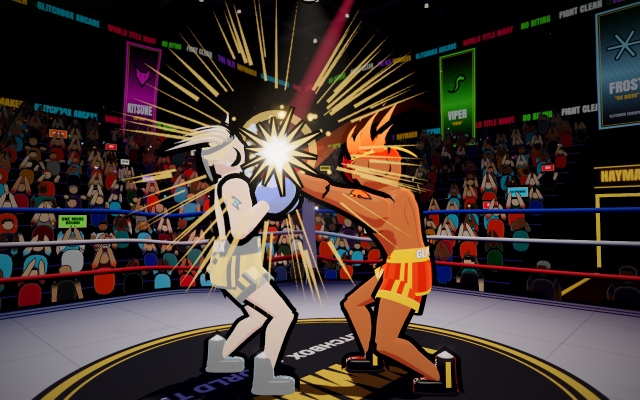
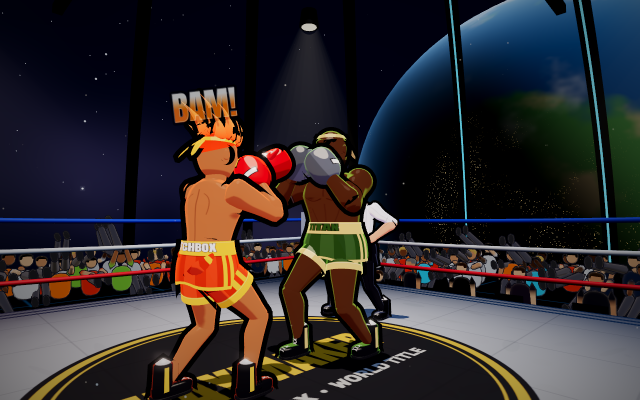
Haymaker: ZERO G achievement (win in ORBIT); new hub thumbnail — Blaze vs Titan in orbit with the Earth behind

diff --git a/haymaker.html b/haymaker.html
@@ -566,7 +566,7 @@ body.touch #abil,body.touch #keys{display:none}
       <kbd>DAILY</kbd><span>One set fight a day for everyone, scored on how well you win.</span>
       <kbd>TRAINING</kbd><span>A dummy you control, a step-by-step TUTORIAL and six COMBO TRIALS. RECORD a few seconds of your own moves and the dummy plays them back on loop — practise blocking exactly what gives you trouble.</span>
       <kbd>ONLINE</kbd><span>1v1 with a friend by room code. Keys 1–4 send quick chat.</span>
-      <kbd>PROGRESS</kbd><span>Fights earn XP for your level and your fighter's MASTERY (bronze → silver → gold). 28 achievements, career RECORDS, a LEGEND kit per fighter for winning the ladder, and a custom kit (✎) you design.</span>
+      <kbd>PROGRESS</kbd><span>Fights earn XP for your level and your fighter's MASTERY (bronze → silver → gold). 29 achievements, career RECORDS, a LEGEND kit per fighter for winning the ladder, and a custom kit (✎) you design.</span>
       <kbd>PAUSE</kbd><span>MOVE LIST, INSTANT REPLAY, PHOTO MODE and SETTINGS live in the pause menu.</span>
     </div>
     <button class="btn primary" id="helpBack">GOT IT</button>
@@ -763,7 +763,7 @@ const saveSet=()=>{try{localStorage.setItem('haymaker.set',JSON.stringify(SET))}
 const REC={w:0,l:0,ko:0,champ:{},ladders:0,per:{}};   // per[fighterId] = {w,l,ko,big,combo,titles}
 try{Object.assign(REC,JSON.parse(localStorage.getItem('haymaker.rec')||'{}'))}catch(e){}
 // ════ ACHIEVEMENTS ════
-const ACH=[['first','FIRST BLOOD','Win a fight'],['beach','BEACH BODY','Win a fight at The Beach'],['rope','ROPE-A-DOPE','Soak 3 punches in one Rope-a-Dope'],['finisher','SHOWSTOPPER','Win by KO with a Locker finisher'],['reel','HIGHLIGHT REEL','Watch your fight highlights'],['ko','LIGHTS OUT','Win by knockout'],['parry','READ YOU','Land a PERFECT block'],['hayko','HAYMAKER!','Knock someone out with a full haymaker'],
+const ACH=[['first','FIRST BLOOD','Win a fight'],['beach','BEACH BODY','Win a fight at The Beach'],['orbit','ZERO G','Win a fight in ORBIT'],['rope','ROPE-A-DOPE','Soak 3 punches in one Rope-a-Dope'],['finisher','SHOWSTOPPER','Win by KO with a Locker finisher'],['reel','HIGHLIGHT REEL','Watch your fight highlights'],['ko','LIGHTS OUT','Win by knockout'],['parry','READ YOU','Land a PERFECT block'],['hayko','HAYMAKER!','Knock someone out with a full haymaker'],
   ['clash','CLASH OF TITANS','Clash two haymakers'],['combo10','COMBO KING','Land a 10-hit combo'],['flawless','FLAWLESS','Win without taking a hit'],['comeback','COMEBACK','Win from under 10% health'],
   ['champ','CHAMPION','Win the arcade ladder'],['legend3','HALL OF FAME','Win the ladder with three different fighters'],['surv5','SURVIVOR','Win 5 in a row in survival'],['surv10','IRON WILL','Win 10 in a row in survival'],
   ['venues','WORLD TOUR','Win in the arena, on the rooftop and in the Pit'],['storm','STORM CHASER','Win on a stormy rooftop'],['all','COMPLETE ROSTER','Win with every fighter'],
@@ -4719,7 +4719,7 @@ function onEnd(r){
   else if(r.how==='FORFEIT'){SFX.bell(3);announce('FORFEIT','gold',1.8);SFX.cheer(.8)}
   else{SFX.bell(3);announce(w<0?'DRAW!':'DECISION','gold',1.8);say(w<0?'This one is a draw!':'We go to the judges\' scorecards.');SFX.cheer(.8)}
   if(w>=0)setTimeout(()=>{if(G.phase!=='end'||G.mode!=='fight')return;confetti();SFX.fanfare(w===G.ME);if(!ko)pyro(2,[0,1,2,3])},ko?1300:900);
-  if(w===G.ME&&!G.attract){const me=G.B[G.ME],o=G.B[1-G.ME];achGet('first');if(ARENA.venue==='beach')achGet('beach');if(ko)achGet('ko');if(me.stats.took===0||me.hp>=me.hpMax-.01&&!me.kd)achGet('flawless');if(me.minHp!=null&&me.minHp<me.hpMax*.1)achGet('comeback');
+  if(w===G.ME&&!G.attract){const me=G.B[G.ME],o=G.B[1-G.ME];achGet('first');if(ARENA.venue==='beach')achGet('beach');if(ARENA.venue==='orbit')achGet('orbit');if(ko)achGet('ko');if(me.stats.took===0||me.hp>=me.hpMax-.01&&!me.kd)achGet('flawless');if(me.minHp!=null&&me.minHp<me.hpMax*.1)achGet('comeback');
     if(G.online)achGet('online');if(G.bots[1-G.ME]&&G.bots[1-G.ME].diff==='champion')achGet('champcpu');
     REC.vwins=REC.vwins||{};REC.vwins[ARENA.venue]=1;if(ARENA.rain&&ARENA.rain.on)achGet('storm');if(REC.vwins.arena&&REC.vwins.roof&&REC.vwins.pit)achGet('venues');
     if(!G.online&&!G.watch&&!G.local){REC.fwins=REC.fwins||{};REC.fwins[me.f.id]=1;if(FIGHTERS.every(f=>REC.fwins[f.id]))achGet('all')}}
